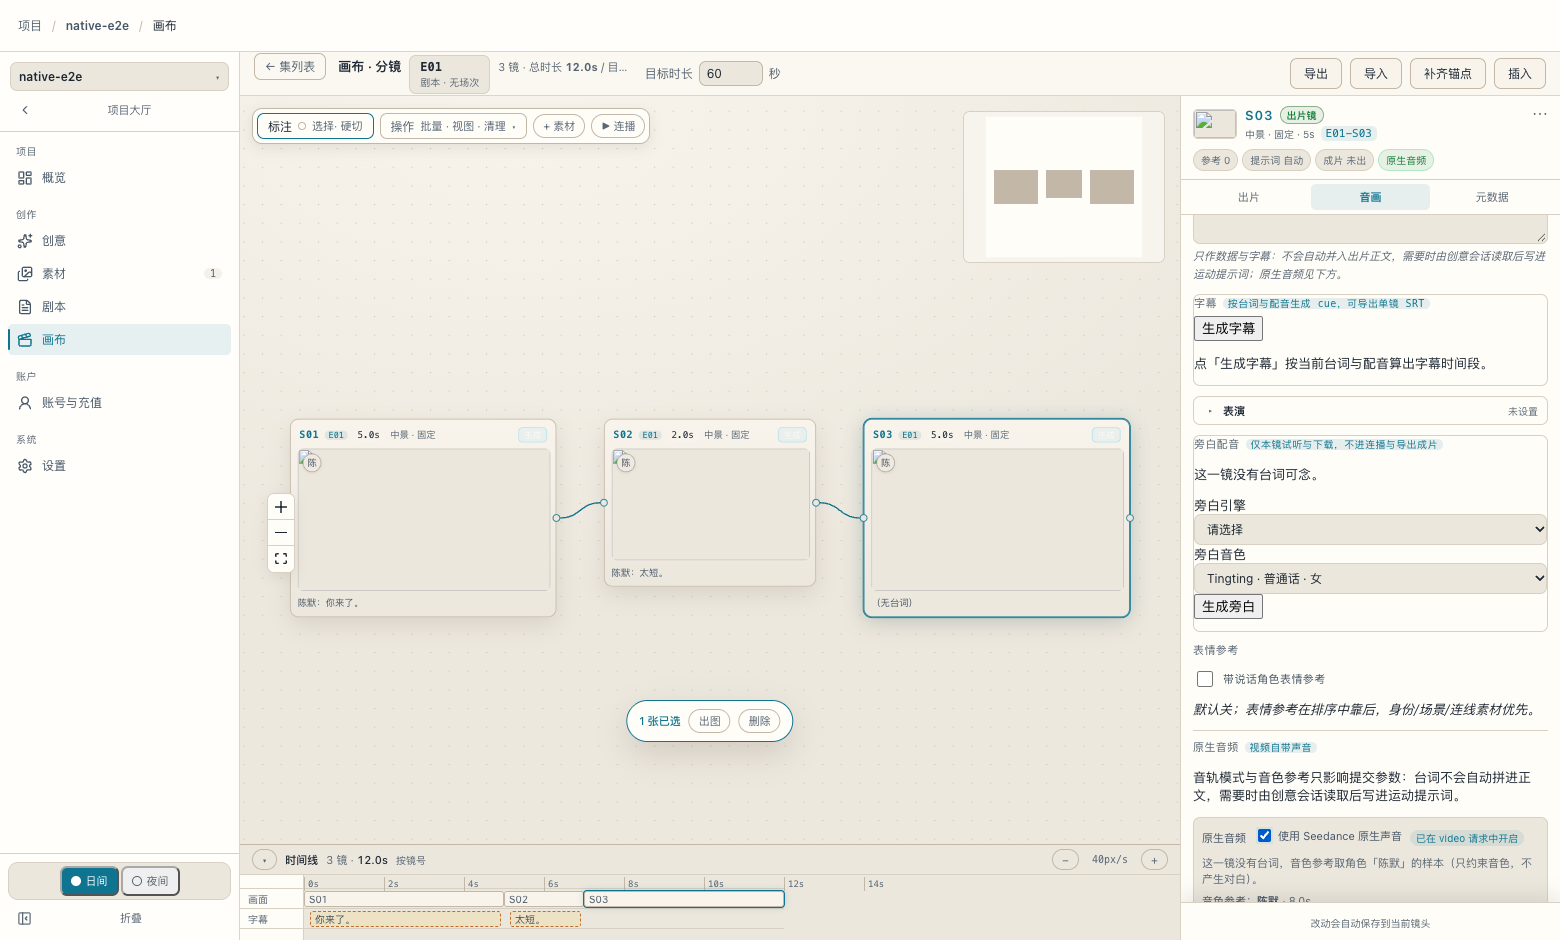
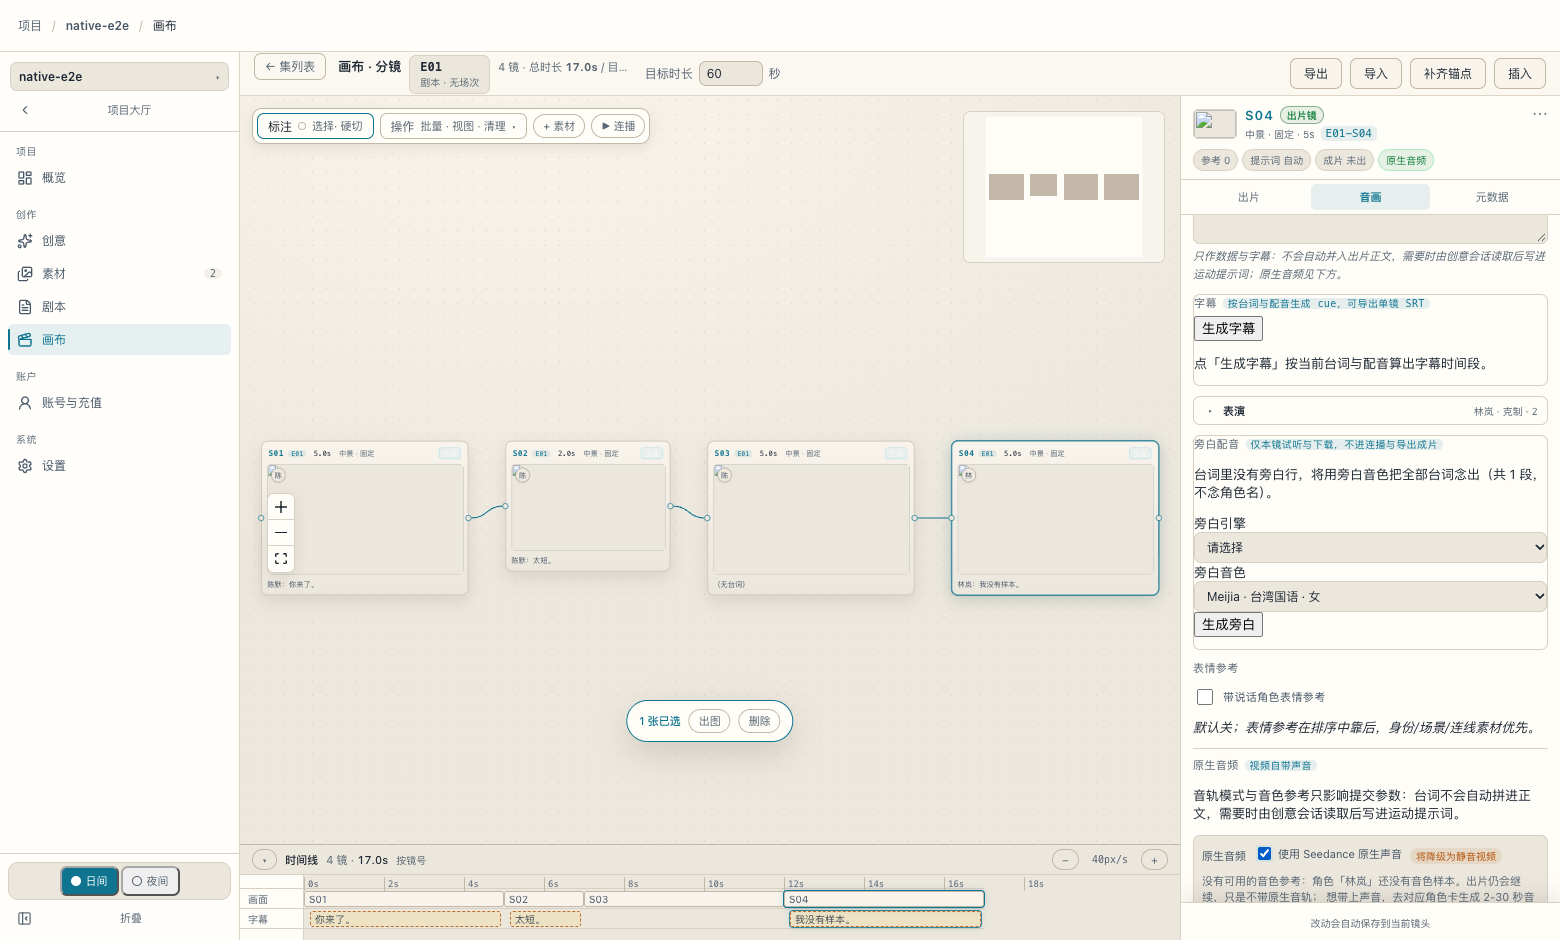
feat(native-audio): 没有音色样本也能出片，降级为静音视频而不是禁用
「没有可用的角色音色样本：请先在某张角色卡里生成 2-30 秒的音色样本」
把用户挡在出片按钮外面。音色参考只是音轨的增强项，不该成为出片的前置
条件：用户点了按钮就应该拿到视频，缺样本最多是这次没有原生声音。

改动分三层，降级决策只在一处：

- nativeAudio.ts 仍如实报告样本是否可用（不改解析结果，供 UI 描述取谁）。
- videoPrompt.ts 把 nativeRef 失败从 blocking 降级为 warn（native-degraded），
  并把 mode 从 'native' 回落到普通出片路径；同时按普通出片重算时长——
  原生音频的「模型下限 + 1」抬升只在真要带音轨时成立，降级后还按 5 秒请求
  等于白等一段没有声音的时长。
- NativeAudioPanel 的开关只看模型能力，不再要求 ref.ok；无样本时仍写
  audio_mode=native（记住用户偏好）但不写 audio_ref，并给出「将降级」说明。

Agent 的 set_shot_video_options 同步：只有「模型不支持原生音频」是硬错误，
缺样本改为开启 + 说明降级原因。

上游约束（server/apimart.mjs）：generate_audio 必须同时给 audio_url，
所以「开音轨但无参考」不是合法组合，只能整条降级——注释里写明了这一点。

验证：
- verify-shot-seconds.mjs 新增 7 条降级用例：不阻塞、mode 不为 native、
  无 audio 附件、有 warn、时长回到 4s；零角色卡时音色缺失同样不阻塞。
- verify-native-audio-ui.mjs 新增无样本角色 + 镜头：断言开关可点、
  写回 audio_mode 且不写 audio_ref、界面说明降级。14 项全过。
- 干净 HEAD 上「无音色样本仍可开启 native」是红的，改动后转绿。

diff --git a/src/videoPrompt.ts b/src/videoPrompt.ts
@@ -216,23 +216,34 @@ export function buildShotVideoRequest(input: {
   })
   /** 唯一时长来源：取整、模型下限与原生音频门槛都在这里解出，后续一律读 seconds */
   const shotSeconds = Number(d.seconds) || 0
-  const { seconds, floor: secondsFloor } = shotRequestSeconds({
-    seconds: shotSeconds,
-    modelId: input.model?.model,
-    nativeAudio: nativeMode,
-    nativeAudioMinVideoSeconds: nativeMode ? audioCaps?.minVideoSeconds : undefined,
-  })
+  /** 先按原生音频门槛算一次：音色参考解析要用到它（原生须严格大于模型下限） */
+  const nativeSeconds = nativeMode
+    ? shotRequestSeconds({
+        seconds: shotSeconds,
+        modelId: input.model?.model,
+        nativeAudio: true,
+        nativeAudioMinVideoSeconds: audioCaps?.minVideoSeconds,
+      })
+    : null
   const nativeRef = nativeMode
     ? nativeAudioRef({
         dialogue,
         performance: d.performance,
         characters: input.characters,
         caps: audioCaps,
-        seconds,
+        seconds: nativeSeconds?.seconds ?? shotSeconds,
         // 无声镜没有说话人可推断，沿用镜上已保存的音色角色
         preferredCharacter: d.audioRef?.character,
       })
     : null
+  /**
+   * 音色参考没解析出来时按**普通出片**重算时长：原生音频的「下限 + 1」抬升
+   * 只在真的要带音轨时才成立，降级后还按 5 秒请求等于白等一段没有声音的时长。
+   */
+  const { seconds, floor: secondsFloor } =
+    nativeMode && nativeRef?.ok
+      ? (nativeSeconds ?? shotRequestSeconds({ seconds: shotSeconds, modelId: input.model?.model }))
+      : shotRequestSeconds({ seconds: shotSeconds, modelId: input.model?.model })
 
   const { refs: candidates, missing, expressionNote } = collectShotComposerRefs({
     data: d,
@@ -268,7 +279,28 @@ export function buildShotVideoRequest(input: {
   /** 运镜文案只来自条目自身的 motion_note，不再从几何数据推导 */
   const liveMotionNote = d.motionNote || ''
 
-  const mode: VideoRequestMode = nativeMode
+  /**
+   * 音色参考解析不出来时**不阻塞出片**：原生音轨只是增强项，用户点了按钮就该
+   * 得到视频。没有可用样本就降级成普通出片（`generate_audio: false`），并在
+   * warnings 里说明这次没带原生声音。
+   *
+   * 上游约束（server/apimart.mjs）：`generate_audio` 必须同时给 `audio_url`，
+   * 所以「开音轨但无参考」不是合法组合，只能整条降级。
+   */
+  const nativeDegraded = Boolean(nativeMode && nativeRef && !nativeRef.ok)
+  const audio: VideoAttachment | null =
+    nativeMode && nativeRef?.ok
+      ? {
+          slot: 'audio',
+          index: 1,
+          url: nativeRef.url,
+          label: `${nativeRef.character} 音色`,
+          purpose: '音色',
+          character: nativeRef.character,
+        }
+      : null
+
+  const mode: VideoRequestMode = nativeMode && !nativeDegraded
     ? 'native'
     : primaryVideo
       ? 'video'
@@ -295,17 +327,6 @@ export function buildShotVideoRequest(input: {
         source: 'asset',
       }
     : null
-  const audio: VideoAttachment | null =
-    nativeMode && nativeRef?.ok
-      ? {
-          slot: 'audio',
-          index: 1,
-          url: nativeRef.url,
-          label: `${nativeRef.character} 音色`,
-          purpose: '音色',
-          character: nativeRef.character,
-        }
-      : null
 
   const fingerprint = fingerprintOf({
     data: d,
@@ -385,8 +406,13 @@ export function buildShotVideoRequest(input: {
       message: `${invalidNeighbor.label}：${invalidNeighbor.reason}`,
     })
   }
-  if (nativeMode && nativeRef && !nativeRef.ok) {
-    blocking.push({ code: 'native-unavailable', level: 'error', message: nativeRef.reason })
+  // 拿不到音色参考不阻塞：降级成普通出片，只提示这次没带原生音轨
+  if (nativeDegraded && nativeRef && !nativeRef.ok) {
+    warnings.push({
+      code: 'native-degraded',
+      level: 'warn',
+      message: `本次不带原生音轨出片：${nativeRef.reason}`,
+    })
   }
   if (nativeMode && primaryVideo) {
     blocking.push({
@@ -402,7 +428,8 @@ export function buildShotVideoRequest(input: {
       message: '在画布上为分镜连线角色或图片素材，或勾选运镜库视频参考 / 连线视频素材后再出片',
     })
   }
-  if (nativeMode && refs.length === 0) {
+  // 降级出片按普通路径处理，不再要求「原生音频专用」的连线参考图
+  if (nativeMode && !nativeDegraded && refs.length === 0) {
     blocking.push({
       code: 'native-no-image',
       level: 'error',

diff --git a/src/NativeAudioPanel.tsx b/src/NativeAudioPanel.tsx
@@ -58,16 +58,29 @@ export default function NativeAudioPanel({
       audioRef: data.audioRef,
       dialogue,
     })
-  const canEnable = Boolean(caps?.supported && ref.ok)
-  const reason = !caps?.supported
-    ? '当前模型没有通过音频参考探测'
-    : ref.ok
-      ? ''
-      : ref.reason
+  /**
+   * 开关只看模型能力，不看音色样本。
+   *
+   * 以前这里要求 `ref.ok`，等于「没有角色音色样本就没法开原生音轨」。但样本
+   * 缺失只是拿不到音色锚点，不该拦住出片：用户点了按钮就该拿到视频。缺样本时
+   * 仍然记录 native 偏好，出片时 `buildShotVideoRequest` 会降级成普通出片并给出
+   * 说明——降级决策只在一处，面板不重复实现一套。
+   */
+  const canEnable = Boolean(caps?.supported)
+  const reason = !caps?.supported ? '当前模型没有通过音频参考探测' : ''
+  /** 已开原生音轨但拿不到样本：说清这次会怎么出片 */
+  const degradedHint = Boolean(mode === 'native' && !ref.ok)
+  /** 降级原因；degradedHint 为真时 ref 一定不 ok */
+  const degradedReason = ref.ok ? '' : ref.reason
 
   const toggle = (next: 'off' | 'native') => {
     if (next === 'native') {
-      if (!canEnable || !ref.ok) return
+      if (!canEnable) return
+      // 有样本才记音色参考；没有样本也照样开，出片时降级为静音视频
+      if (!ref.ok) {
+        onPatch({ audioMode: 'native', audioRef: undefined, audioMeta: undefined })
+        return
+      }
       onPatch({
         audioMode: 'native',
         audioRef: ref.ref,
@@ -106,10 +119,17 @@ export default function NativeAudioPanel({
           />
           使用 Seedance 原生声音
         </label>
-        {mode === 'native' && <span className="lip-badge">已在 video 请求中开启</span>}
+        {mode === 'native' && !degradedHint && <span className="lip-badge">已在 video 请求中开启</span>}
+        {degradedHint && <span className="lip-badge warn">将降级为静音视频</span>}
         {stale && <span className="lip-badge warn">参考或台词变了，需重生成</span>}
       </div>
       {reason && <div className="lip-hint">{reason}</div>}
+      {degradedHint && (
+        <div className="lip-hint" data-native-degraded>
+          没有可用的音色参考：{degradedReason}。出片仍会继续，只是不带原生音轨；
+          想带上声音，去对应角色卡生成 2-30 秒音色样本即可。
+        </div>
+      )}
       {!reason && silentShot && ref.ok && (
         <div className="lip-hint">
           这一镜没有台词，音色参考取角色「{ref.character}」的样本（只约束音色，不产生对白）。

diff --git a/src/agent/shotVideoHarnessTools.ts b/src/agent/shotVideoHarnessTools.ts
@@ -65,7 +65,8 @@ export function createSetShotVideoOptionsTool(deps: MaterialToolDeps): ToolDef {
     name: 'set_shot_video_options',
     description:
       '【平台内置】写入某镜出片相关开关：表情参考、原生音频、工位（生图/出片）。' +
-      '至少提供一个字段；开启原生音频前会校验与画布相同的就绪条件（单说话人、有效音色等）。',
+      '至少提供一个字段；只有当前模型不支持原生音频才会拒绝，' +
+      '缺音色样本或说话人无法判定时仍会开启，出片阶段降级为静音视频并给出说明。',
     schema: z
       .object({
         no: z.string().min(1).describe('镜号，例如 S03'),
@@ -133,24 +134,29 @@ export function createSetShotVideoOptionsTool(deps: MaterialToolDeps): ToolDef {
             // 无声镜没有说话人可推断，沿用镜上已保存的音色角色
             preferredCharacter: shot.audio_ref?.character,
           })
-          if (!caps?.supported || !ref.ok) {
-            return {
-              ok: false,
-              error: ref.ok ? '当前模型不支持原生音频' : ref.reason,
-            }
+          // 模型不支持原生音频才是硬错误；音色样本缺失只降级，不拒绝设置
+          if (!caps?.supported) {
+            return { ok: false, error: '当前模型不支持原生音频' }
           }
           patch.audio_mode = 'native'
-          patch.audio_ref = { character: ref.ref.character, url: ref.ref.url }
-          patch.audio_meta = {
-            fingerprint: nativeAudioFingerprint({
-              modelKey: model?.key,
-              audioRef: ref.ref,
-              dialogue,
-            }),
-            modelKey: model?.key ?? '',
-            createdAt: new Date().toISOString(),
+          if (ref.ok) {
+            patch.audio_ref = { character: ref.ref.character, url: ref.ref.url }
+            patch.audio_meta = {
+              fingerprint: nativeAudioFingerprint({
+                modelKey: model?.key,
+                audioRef: ref.ref,
+                dialogue,
+              }),
+              modelKey: model?.key ?? '',
+              createdAt: new Date().toISOString(),
+            }
+            notes.push('原生音频：开')
+          } else {
+            // 与面板一致：偏好记为 native，出片时由拼装器降级并给 warn
+            patch.audio_ref = undefined
+            patch.audio_meta = undefined
+            notes.push(`原生音频：开（无音色参考，出片会降级为静音：${ref.reason}）`)
           }
-          notes.push('原生音频：开')
         }
       }
 
